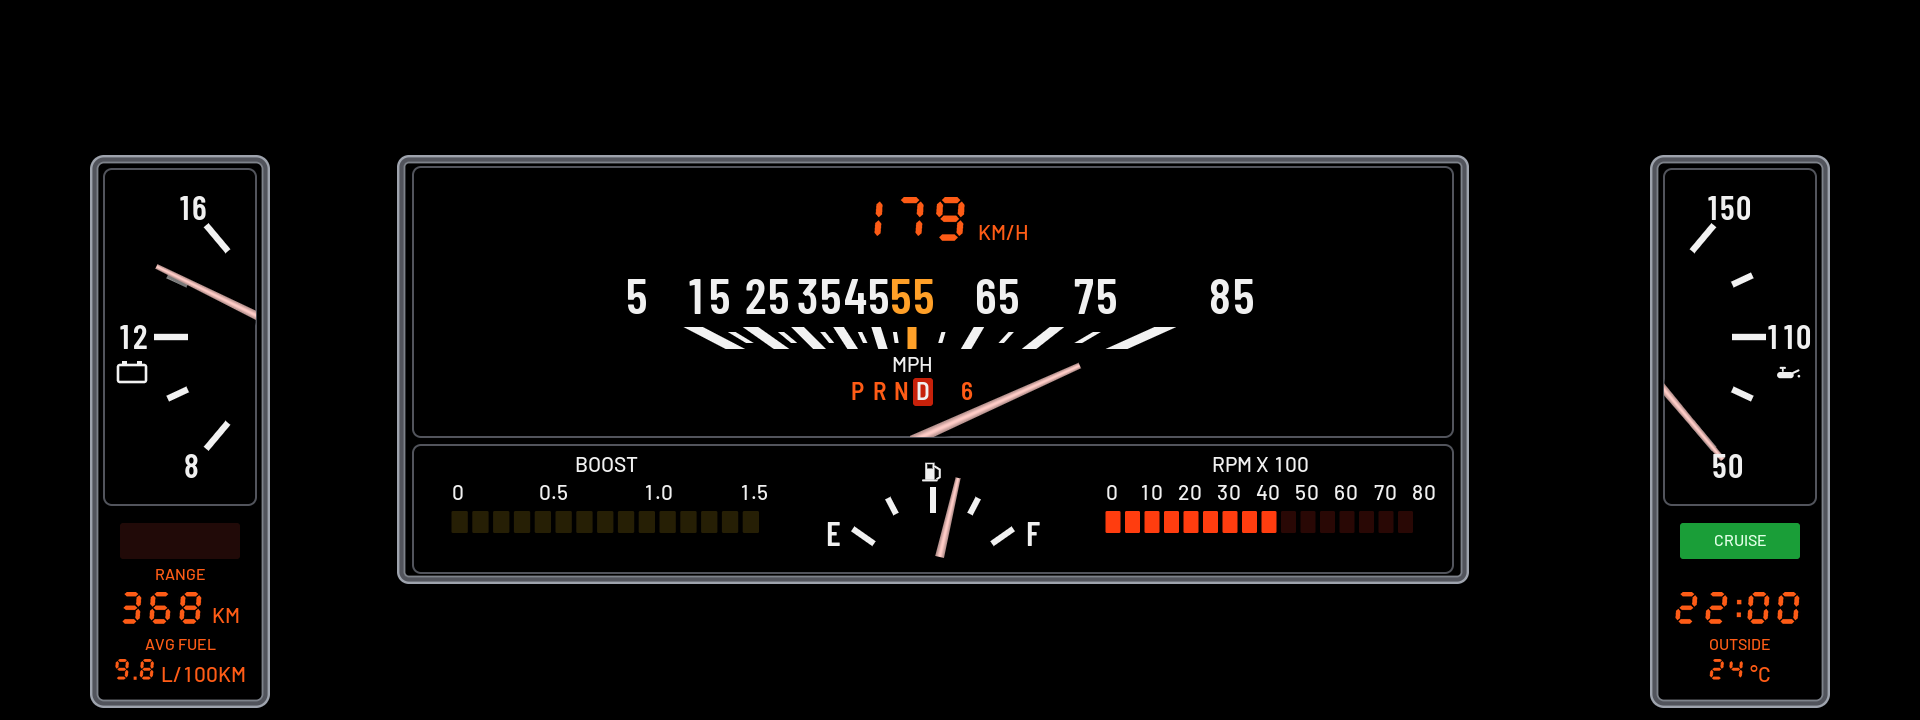
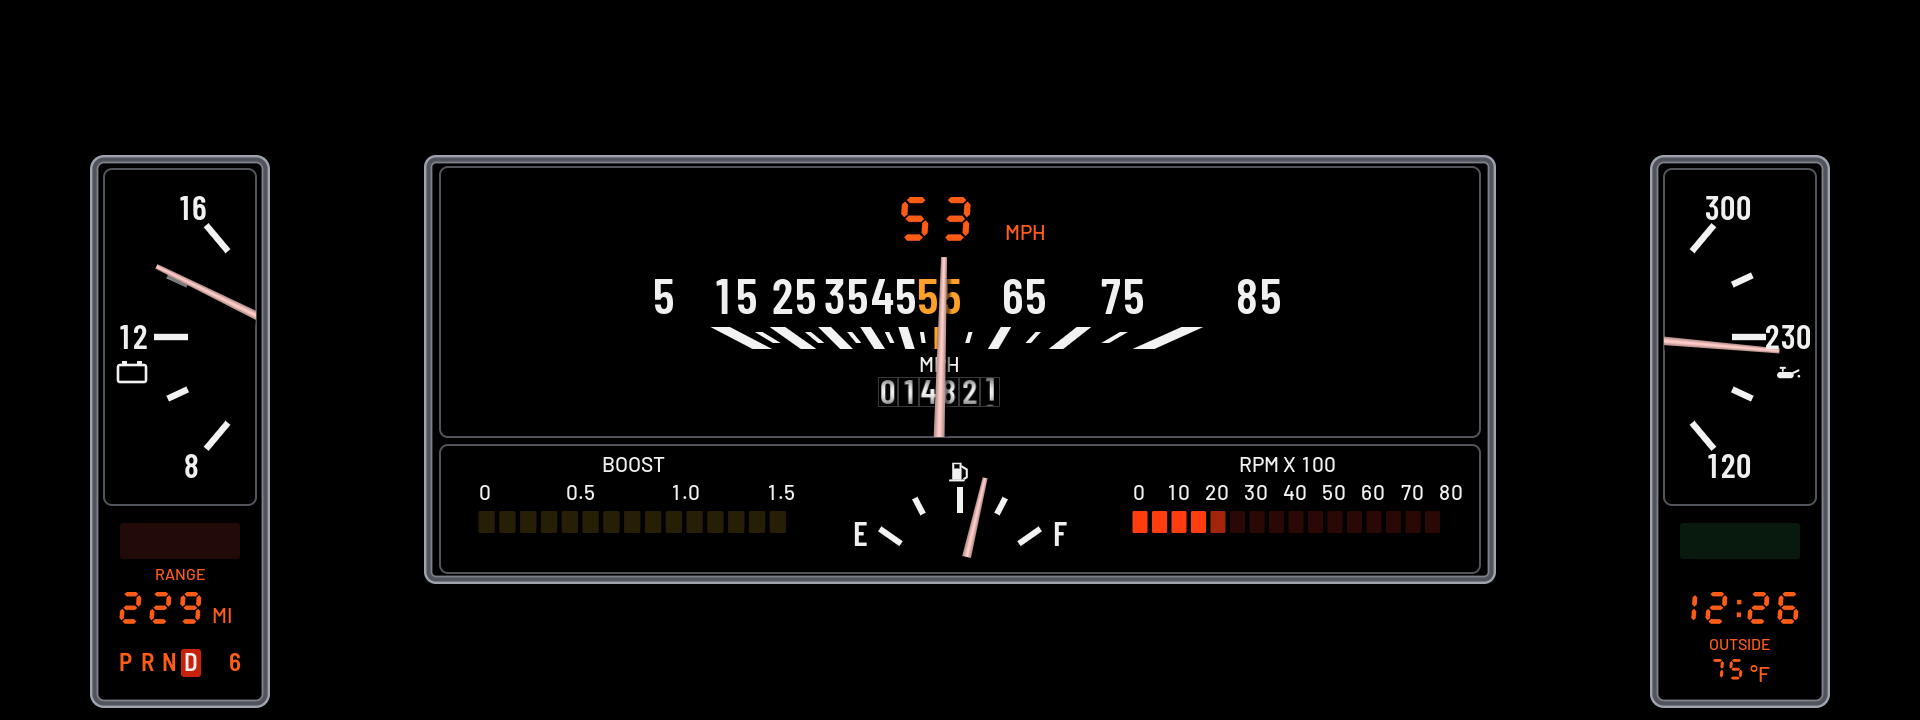
Custom Cluster 0.1.49: Sport's am/pm clear of the time; README screenshots with Miku's close-up; bench fits the window

diff --git a/bench/page.html b/bench/page.html
@@ -52,6 +52,25 @@
   label.chk { display: inline-flex; gap: 6px; align-items: center; cursor: pointer; }
   .srow { display: flex; justify-content: space-between; align-items: center; gap: 8px; margin: 6px 0; }
   .srow select { max-width: 170px; }
+  /* fit the window: the displays and the log stay put on the left, the controls sit in tabs on the right and scroll on their own */
+  .seg { flex-wrap: wrap; }
+  .tabs { display: flex; gap: 6px; }
+  .tabs button.on { border-color: var(--accent); color: var(--accent); }
+  aside section[data-tab] { display: none; } aside section[data-tab].on { display: block; }
+  details.about { margin-top: 8px; } details.about summary { color: var(--dim); font-size: 12px; cursor: pointer; }
+  details.about .note { margin-top: 4px; }
+  #sliders { display: grid; grid-template-columns: 1fr 1fr; column-gap: 14px; }
+  #sliders .row { grid-template-columns: 62px 1fr 40px; gap: 6px; margin: 4px 0; }
+  @media (min-width: 901px) {
+    body:not(.only) { height: 100vh; display: flex; flex-direction: column; overflow: hidden; }
+    body:not(.only) main { flex: 1; min-height: 0; grid-template-columns: minmax(0, 1fr) 420px; grid-template-rows: minmax(0, 1fr) 150px; grid-template-areas: "stage aside" "log aside"; }
+    body:not(.only) .stage { grid-area: stage; min-height: 0; display: flex; flex-direction: column; }
+    body:not(.only) #views { flex: 1; min-height: 0; display: flex; flex-direction: column; align-items: center; }
+    body:not(.only) canvas.view { flex: 0 1 auto; min-height: 0; object-fit: contain; }
+    body:not(.only) .vlabel { align-self: flex-start; }
+    body:not(.only) #log { grid-column: auto; grid-area: log; height: auto; }
+    body:not(.only) aside { grid-area: aside; min-height: 0; overflow-y: auto; gap: 10px; }
+  }
   .status { font-size: 13px; padding: 8px 10px; margin: 4px 0 10px; border-radius: 6px; background: rgba(127,127,127,.12); white-space: pre-line; }
 </style>
 </head>
@@ -80,12 +99,13 @@
     <div class="note" id="stageNote">Pixels are the app's own: image layers are its raw RGBA pushes, gauges run its real GLSL shader in WebGL. Brightness, color and blur on the real display will differ; only the car shows that.</div>
   </div>
   <aside>
-    <section>
+    <div class="tabs" id="tabs"><button data-tab="screen" class="on">Center screen</button><button data-tab="signals">Vehicle signals</button><button data-tab="layers">Layers</button></div>
+    <section data-tab="screen" class="on">
       <h2>Center screen</h2>
       <div id="screens"><div class="status">status: waiting for the app</div></div>
-      <div class="note">The app's page on the car's center screen: the status row, then the settings. A change here is pressed on the kit's stand-in HMI, the same way the car's drop-downs and checkboxes send it, and saved in bench/.data/&lt;app id&gt;/settings.json. A layout file saved into bench/.data/&lt;app id&gt;/layouts/ overrides the built-in one of that name, and the app reloads it by itself.</div>
+      <details class="about"><summary>About</summary><div class="note">The app's page on the car's center screen: the status row, then the settings. A change here is pressed on the kit's stand-in HMI, the same way the car's drop-downs and checkboxes send it, and saved in bench/.data/&lt;app id&gt;/settings.json. A layout file saved into bench/.data/&lt;app id&gt;/layouts/ overrides the built-in one of that name, and the app reloads it by itself.</div></details>
     </section>
-    <section>
+    <section data-tab="signals">
       <h2>Vehicle signals</h2>
       <div class="seg"><button id="mDemo" class="on">Demo drive</button><button id="mManual">Manual</button></div>
       <div class="seg" id="drive" title="The drive mode buttons: FES statusFESVehicleDynamicSwitchHMI"><button data-v="" class="on">Mode not sent</button><button data-v="4">COMFORT</button><button data-v="1">SPORT</button><button data-v="2">SPORT+</button><button data-v="7">ECO PRO</button></div>
@@ -93,12 +113,12 @@
       <div class="seg" id="assist" title="BMW's HUD driver assistance block: DisplayDataServer functionalLibraryData"><button data-v="" class="on">Assist not sent</button><button data-v="acc">ACC ON</button><button data-v="off">ACC OFF</button></div>
       <div id="carsw"></div>
       <div id="sliders"></div>
-      <div class="note" id="sigNote">Demo drive is the kit's simulator (sim.js). It has no boost signal, so boost reads "--" here, as on a car that does not fill that field.</div>
+      <details class="about"><summary>About</summary><div class="note" id="sigNote">Demo drive is the kit's simulator (sim.js). It has no boost signal, so boost reads "--" here, as on a car that does not fill that field.</div></details>
     </section>
-    <section>
+    <section data-tab="layers">
       <h2>Layers</h2>
       <table><thead><tr><th>app</th><th>target</th><th>conn:ref</th><th>kind</th><th>class/z</th><th>shader</th><th>rect</th><th>car</th></tr></thead><tbody id="layers"></tbody></table>
-      <div class="note">app and target: whose layer it is and where it draws (panel: the cluster, hud: the windshield). conn: that app's connection to cluster-render (1 is its own; a layout's "conn" widgets open more, each with its own 64 layers). Red: over the layer cap, state waiting, not drawn. The car column flags a layer the driver can't fully see (hood, BMW's gear box or belt light, outside the HUD window); hover for the reason.</div>
+      <details class="about"><summary>About</summary><div class="note">app and target: whose layer it is and where it draws (panel: the cluster, hud: the windshield). conn: that app's connection to cluster-render (1 is its own; a layout's "conn" widgets open more, each with its own 64 layers). Red: over the layer cap, state waiting, not drawn. The car column flags a layer the driver can't fully see (hood, BMW's gear box or belt light, outside the HUD window); hover for the reason.</div></details>
     </section>
   </aside>
   <div id="log"></div>
@@ -499,6 +519,15 @@
   });
   if (/[?&](clean|only)=1/.test(location.search)) document.getElementById('outlines').checked = false;
   if (/[?&]only=1/.test(location.search)) document.body.classList.add('only');
+  // the right column's tabs, the last one picked remembered in this browser
+  function showTab(name) {
+    const known = document.querySelector('#tabs button[data-tab="' + name + '"]') ? name : 'screen';
+    document.querySelectorAll('#tabs button').forEach((button) => button.classList.toggle('on', button.dataset.tab === known));
+    document.querySelectorAll('aside section[data-tab]').forEach((section) => section.classList.toggle('on', section.dataset.tab === known));
+    try { localStorage.setItem('benchTab', known); } catch (e) { /* storage off: the tab just isn't remembered */ }
+  }
+  document.querySelectorAll('#tabs button').forEach((button) => button.onclick = () => showTab(button.dataset.tab));
+  try { showTab(localStorage.getItem('benchTab') || 'screen'); } catch (e) { showTab('screen'); }
   if (/[?&]backdrop=1/.test(location.search)) document.getElementById('road').checked = true;
   if (/[?&]car=0/.test(location.search)) document.getElementById('carview').checked = false;
   if (/[?&]bmw=0/.test(location.search)) document.getElementById('bmwhud').checked = false;

diff --git a/README.md b/README.md
@@ -6,17 +6,19 @@
 
 Redraws the whole instrument cluster as a 1987 Buick Regal dash, and switches to a Sport view round BMW's map while route guidance is on. [Read more](apps/custom_cluster/README.md)
 
-<p align="center"><img src="docs/images/cluster-regal.png" width="900" alt="Regal theme"><br><sub>Regal: the speed over the 55, the voltmeter and oil temperature pods with the range and clock (this picture is before the rolling odometer under the 55 and P R N D in the left pod)</sub></p>
+<p align="center"><img src="docs/images/cluster-regal.png" width="900" alt="Regal theme"><br><sub>Regal: the speed over the 55, the voltmeter and oil temperature pods with the range and clock, the rolling odometer under the 55 and P R N D in the left pod</sub></p>
 
 <p align="center"><img src="docs/images/cluster-sport.png" width="900" alt="Sport theme while navigating"><br><sub>Sport while navigating: BMW's map shows in the middle (black here), the route's progress along the bottom</sub></p>
 
 ## Custom HUD
 
-Puts your own Live2D character on the windshield HUD, standing beside BMW's speed and speed-limit sign: she leans as the car pulls away and brakes, and at a stop the view zooms in to a close-up of her, blinking, swaying and looking toward the indicator. Daily and Sport layouts with your own readouts (speed, gear, a shift bar, boost, oil and coolant) are there too, in Classic, M and Night colours. It makes room for BMW's own HUD content: the layout steps aside while route guidance is up. [Read more](apps/custom_hud/README.md)
+Puts your own Live2D character on the windshield HUD, standing beside BMW's speed and speed-limit sign: she leans as the car pulls away and brakes, and at a stop the view zooms in to a close-up of her, blinking, swaying and looking toward the indicator. It makes room for BMW's own HUD content: the layout steps aside while route guidance is up. [Read more](apps/custom_hud/README.md)
 
-<p align="center"><img src="docs/images/hud-miku.png" width="520" alt="Miku layout on the HUD"><br><sub>The Miku layout, with BMW's own speed and speed-limit sign (bottom left)</sub></p>
+<p align="center"><img src="docs/images/hud-miku.png" width="520" alt="Miku layout on the HUD"><br><sub>Driving: she leans as the car pulls away, beside BMW's own speed and speed-limit sign (bottom left)</sub></p>
 
-<p align="center"><sub>Miku in the screenshot: the free Hatsune Miku "いますぐ輪廻" fan model by [Ruby_鸣哔うび](https://ko-fi.com/rubybee) (art) and 慈善小霓 (Live2D rigging), used under its personal, non-commercial terms. No model files are in this repo; you bake and copy your own model to your car.</sub></p>
+<p align="center"><img src="docs/images/hud-miku-close.png" width="520" alt="Miku close-up on the HUD"><br><sub>Stopped: the close-up, filling the window from BMW's speed to the right edge</sub></p>
+
+<p align="center"><sub>Miku in the screenshots: the free Hatsune Miku "いますぐ輪廻" fan model by [Ruby_鸣哔うび](https://ko-fi.com/rubybee) (art) and 慈善小霓 (Live2D rigging), used under its personal, non-commercial terms. No model files are in this repo; you bake and copy your own model to your car.</sub></p>
 
 ## Install
 

diff --git a/apps/custom_hud/README.md b/apps/custom_hud/README.md
@@ -2,9 +2,11 @@
 
 Puts your own Live2D character on the windshield HUD, beside BMW's own speed and speed-limit sign. Open **Custom HUD** from the apps menu on the center screen to turn her on or off.
 
-<p align="center"><img src="../../docs/images/hud-miku.png" width="520" alt="Miku layout"><br><sub>The Miku layout, with BMW's own speed and speed-limit sign (bottom left)</sub></p>
+<p align="center"><img src="../../docs/images/hud-miku.png" width="520" alt="Miku layout"><br><sub>Driving: she leans as the car pulls away, beside BMW's own speed and speed-limit sign (bottom left)</sub></p>
 
-<p align="center"><sub>Miku in the screenshot: the free Hatsune Miku "いますぐ輪廻" fan model by [Ruby_鸣哔うび](https://ko-fi.com/rubybee) (art) and 慈善小霓 (Live2D rigging), used under its personal, non-commercial terms. No model files are in this repo; you bake and copy your own model to your car.</sub></p>
+<p align="center"><img src="../../docs/images/hud-miku-close.png" width="520" alt="Miku close-up on the HUD"><br><sub>Stopped: the close-up, filling the window from BMW's speed to the right edge</sub></p>
+
+<p align="center"><sub>Miku in the screenshots: the free Hatsune Miku "いますぐ輪廻" fan model by [Ruby_鸣哔うび](https://ko-fi.com/rubybee) (art) and 慈善小霓 (Live2D rigging), used under its personal, non-commercial terms. No model files are in this repo; you bake and copy your own model to your car.</sub></p>
 
 ## Miku
 

diff --git a/CHANGELOG.md b/CHANGELOG.md
@@ -2,6 +2,12 @@
 
 Newest first. Dates are when the build was pushed.
 
+## Nov 11 2026
+
+- **Custom Cluster 0.1.49:** with the 12-hour clock, Sport's am/pm no longer runs into the time ("12:26am"); the range moves right to make room, into the space the consumption readout left.
+- **README:** new screenshots, Miku's close-up among them. The images of the old HUD layouts and themes are gone.
+- **Bench:** the page fits the window. The displays and log stay on the left, and the right column has tabs (Center screen, Vehicle signals, Layers), so the settings and sliders no longer scroll the displays away.
+
 ## Nov 10 2026
 
 - **Custom HUD 0.1.25:** the Miku parts setting is gone: all of her runs on the car, split over two shaders.
